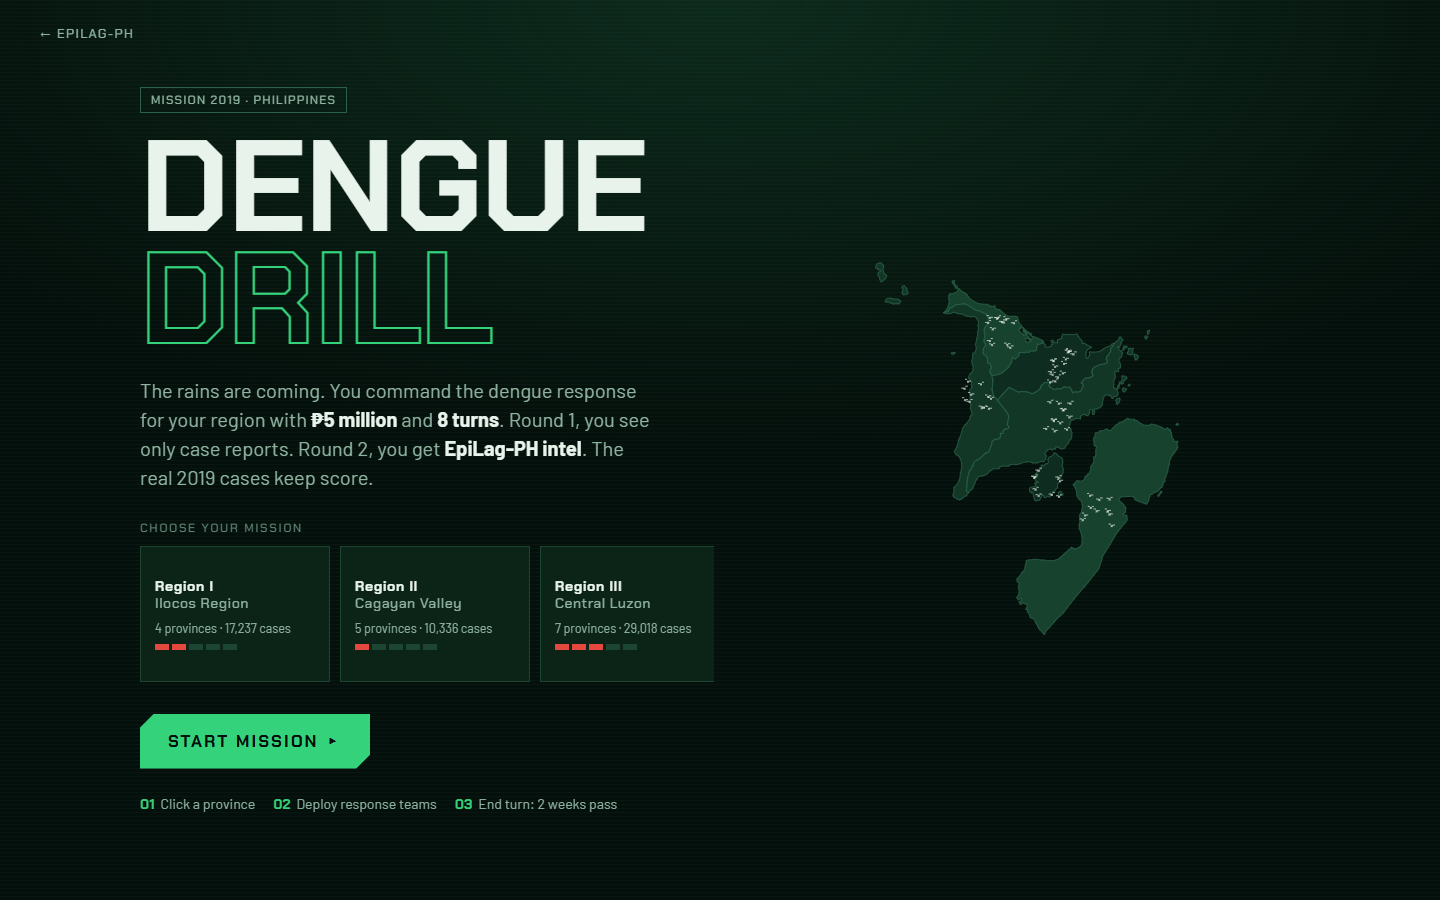
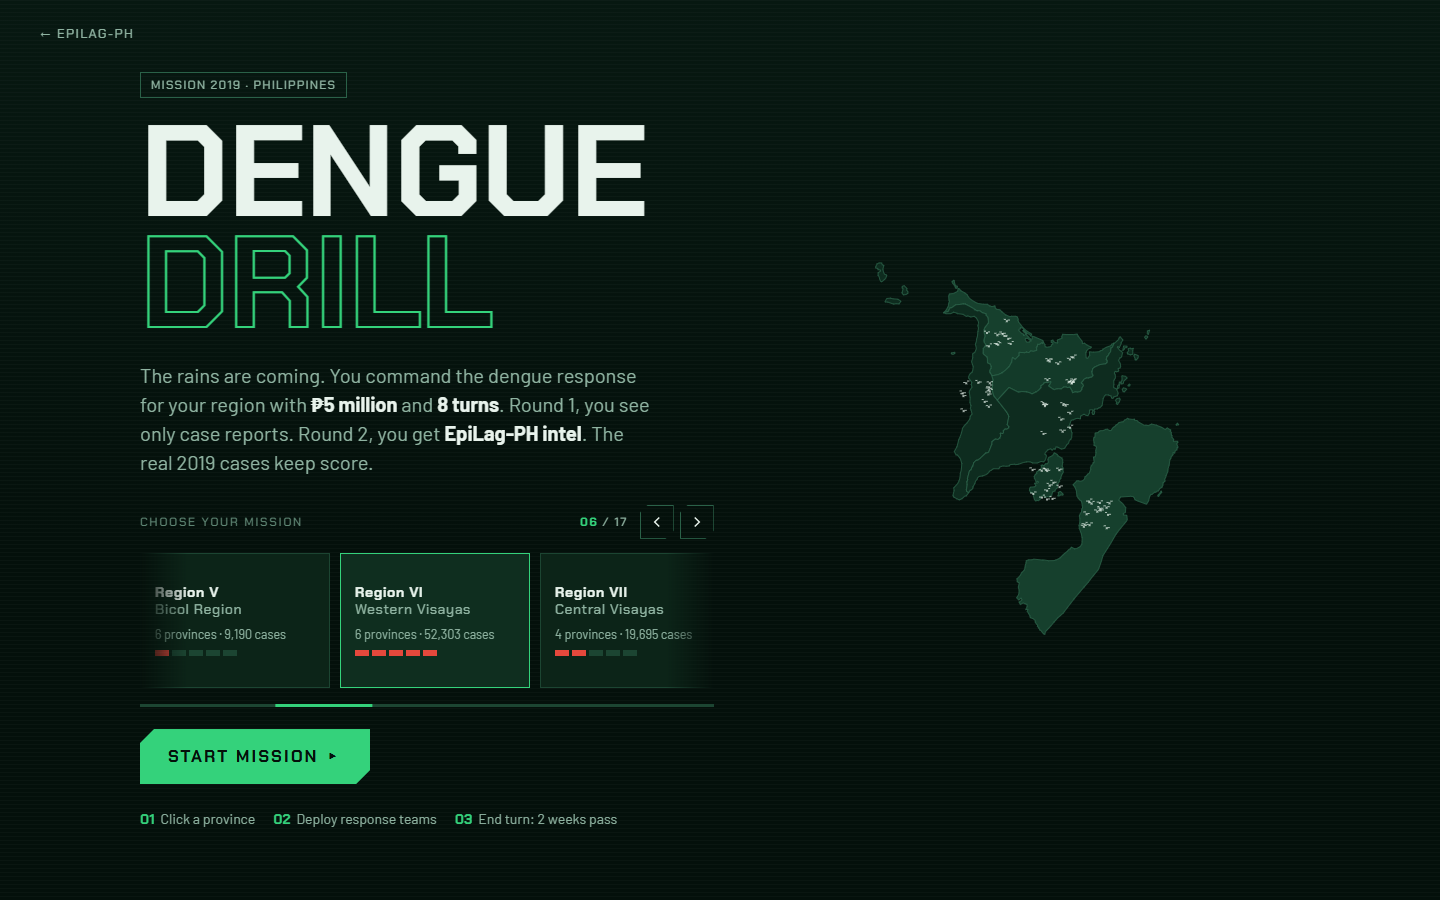
README: give Dengue Drill its own section near the top
Play link, title and round 2 screenshots, how a game goes, and the
11 of 17 result. Refreshes the title screenshot with the new mission picker.

diff --git a/README.md b/README.md
@@ -25,6 +25,28 @@ The live app runs fully in your browser, with no install or account. The first l
 - **Proof:** in a replay of 2019 using only data available on 2 June, **30 of the 32 provinces** that later
   crossed the epidemic threshold were flagged 4 weeks ahead.
 
+## Play it: Dengue Drill
+**[▶ Play Dengue Drill in your browser](https://romeo-04.github.io/epilag/drill/)**. No install needed.
+
+Forecasts are easy to ignore until you feel what they are worth. Dengue Drill makes you the health officer for one of 17
+regions during the real 2019 outbreak, the year the Philippines declared a national dengue epidemic.
+
+| | |
+| --- | --- |
+| ![Dengue Drill title screen: choose one of 17 regions](docs/screenshots/drill_title.png) | ![Round 2: EpiLag-PH forecasts on the map](docs/screenshots/drill_round2.png) |
+
+1. **Pick a region.** You get ₱5 million in response teams and 8 turns starting in May 2019. Each turn is 2 weeks.
+2. **Read the rain receipt.** Before you start, a receipt lists the season's rain and the cases it brought, province by province.
+3. **Round 1: react.** You see only case reports, just as most health offices do today. Deploy teams to provinces, then end the turn.
+4. **Round 2: forecast.** Same region, same budget, now with EpiLag-PH alerts and forecast ranges on the map.
+5. **Get scored on real data.** Each team prevents a share of the cases reported 2–9 weeks after it is deployed. After
+   each round you get a mission report and a grade based on the real 2019 cases. At the end, your two rounds are
+   compared with two computer players: one that reacts to reports and one that follows EpiLag-PH.
+
+In test runs, the computer player that follows EpiLag-PH's alerts averted more cases than the one reacting to reports in
+**11 of 17 regions** (about the same in 1, fewer in 5). The game shows this result honestly, including the regions where
+early action did not pay off.
+
 ## How it works
 ```mermaid
 flowchart LR
@@ -67,12 +89,12 @@ factors behind the forecast (recent cases, season, rain, heat, humidity).
 
 ![Budget plan for the 2019 replay](docs/screenshots/budget_replay_2019.png)
 
-**Dengue Drill: feel why weeks matter.** Command your region's response with ₱5 million over 8 turns of the real
-2019 season. In round 1 you see only case reports. In round 2 you get EpiLag-PH forecasts. The real 2019 cases
-keep score. In computer test runs, following EpiLag's alerts averted more cases than reacting to reports in
-**11 of 17 regions** (about the same in 1, fewer in 5).
+**For residents: a plain-language outlook.** This week's dengue level in Filipino or English, the DOH 4S steps,
+warning signs, and a message ready to share.
 
-![Dengue Drill, round 2 with EpiLag-PH intel](docs/screenshots/drill_round2.png)
+![For residents page](docs/screenshots/public.png)
+
+**Dengue Drill:** see [Play it](#play-it-dengue-drill) above.
 
 ## Does it work?
 Every result is out of sample: each test year is forecast only from earlier years.
